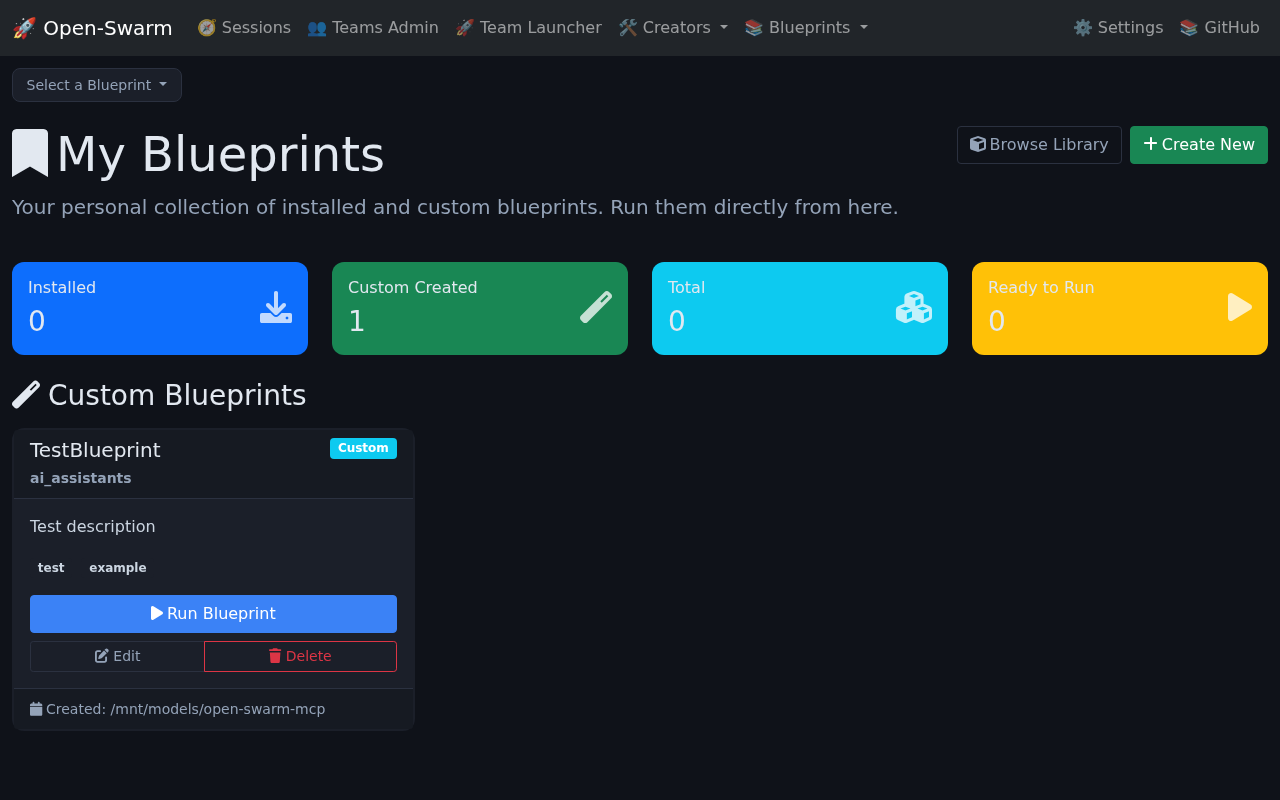
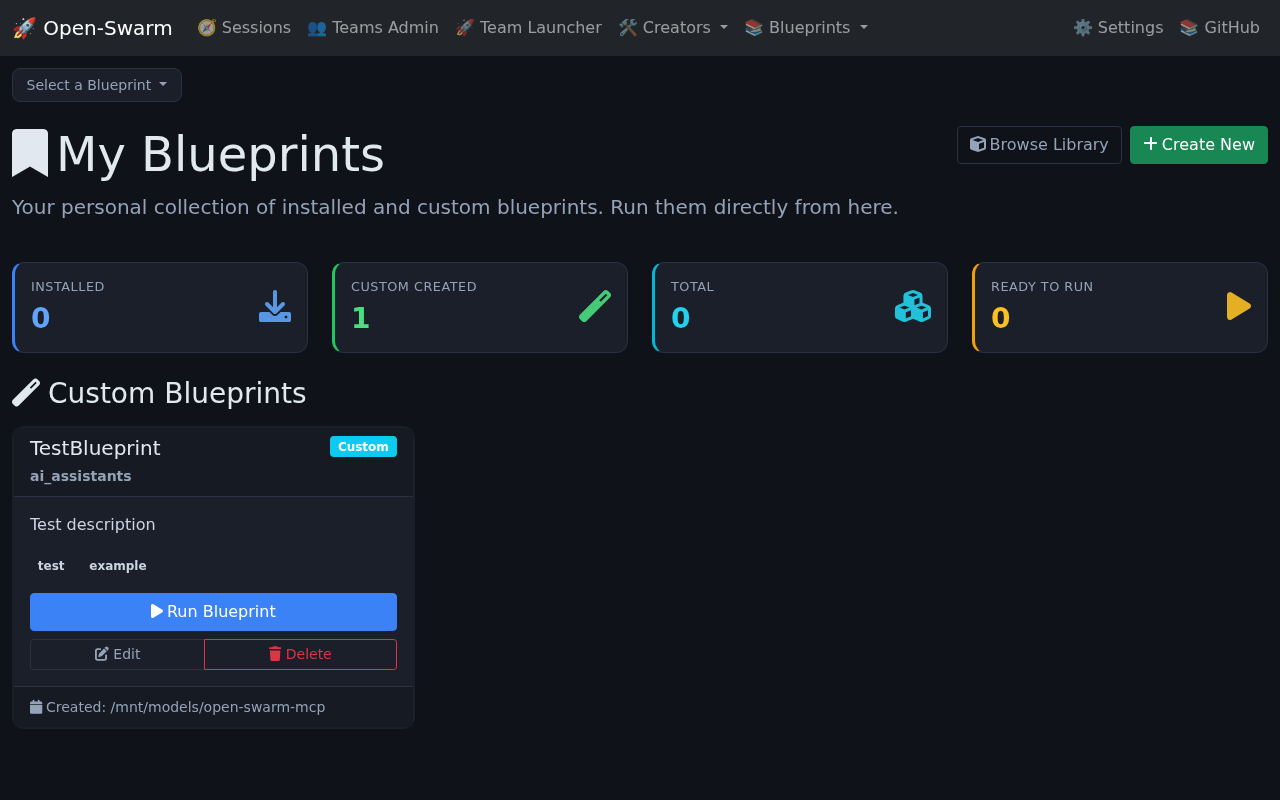
Refine dashboard stat cards: muted dark panels with colored accent (de-clutter)
The My Blueprints + Blueprint Library stat tiles used full-saturation Bootstrap
fills (bg-primary/success/info/warning text-white) — 4 loud solid colour blocks
that were the least-refined element left against the otherwise-muted dark theme.

Added a reusable .os-stat / .os-stat-{blue,green,cyan,amber} style: dark panel,
thin coloured left border, and the colour moved to the number + icon (uppercase
muted label). Keeps the per-stat colour coding but reads as one cohesive dark
dashboard instead of a row of bright blocks. Applied to both pages (8 cards).
Verified via capture.

diff --git a/src/swarm/static/css/rest_mode_style.css b/src/swarm/static/css/rest_mode_style.css
@@ -155,6 +155,20 @@ input[type="password"], input[type="email"], input[type="number"] {
   border-radius: 0 0 var(--os-radius) var(--os-radius); padding: 1rem 1.15rem;
 }
 
+/* ---- stat cards: muted dark panels with a colored accent ---------------- *
+ * Replaces loud full-saturation Bootstrap fills (bg-primary/success/info/
+ * warning text-white) so the dashboard stat tiles fit the dark palette while
+ * keeping per-stat colour coding (colour moves to the number, icon, and a thin
+ * left border instead of flooding the whole card). */
+.os-stat { background: var(--os-panel); border: 1px solid var(--os-border); border-left-width: 3px; }
+.os-stat .card-title { color: var(--os-muted); font-size: .8rem; text-transform: uppercase; letter-spacing: .04em; }
+.os-stat h3 { font-weight: 700; }
+.os-stat .fa-2x { opacity: .9 !important; }
+.os-stat-blue  { border-left-color: #3b82f6; } .os-stat-blue  h3, .os-stat-blue  .fa-2x { color: #60a5fa; }
+.os-stat-green { border-left-color: #22c55e; } .os-stat-green h3, .os-stat-green .fa-2x { color: #4ade80; }
+.os-stat-cyan  { border-left-color: #06b6d4; } .os-stat-cyan  h3, .os-stat-cyan  .fa-2x { color: #22d3ee; }
+.os-stat-amber { border-left-color: #f59e0b; } .os-stat-amber h3, .os-stat-amber .fa-2x { color: #fbbf24; }
+
 /* ---- list groups -------------------------------------------------------- */
 .list-group-item {
   background: var(--os-panel);

diff --git a/src/swarm/templates/blueprint_library.html b/src/swarm/templates/blueprint_library.html
@@ -30,7 +30,7 @@
     <!-- Stats Cards -->
     <div class="row mb-4">
         <div class="col-md-3">
-            <div class="card border-0 bg-primary text-white">
+            <div class="card os-stat os-stat-blue">
                 <div class="card-body">
                     <div class="d-flex justify-content-between">
                         <div>
@@ -45,7 +45,7 @@
             </div>
         </div>
         <div class="col-md-3">
-            <div class="card border-0 bg-success text-white">
+            <div class="card os-stat os-stat-green">
                 <div class="card-body">
                     <div class="d-flex justify-content-between">
                         <div>
@@ -60,7 +60,7 @@
             </div>
         </div>
         <div class="col-md-3">
-            <div class="card border-0 bg-info text-white">
+            <div class="card os-stat os-stat-cyan">
                 <div class="card-body">
                     <div class="d-flex justify-content-between">
                         <div>
@@ -75,7 +75,7 @@
             </div>
         </div>
         <div class="col-md-3">
-            <div class="card border-0 bg-warning text-white">
+            <div class="card os-stat os-stat-amber">
                 <div class="card-body">
                     <div class="d-flex justify-content-between">
                         <div>

diff --git a/src/swarm/templates/my_blueprints.html b/src/swarm/templates/my_blueprints.html
@@ -29,7 +29,7 @@
     <!-- Stats -->
     <div class="row mb-4">
         <div class="col-md-3">
-            <div class="card border-0 bg-primary text-white">
+            <div class="card os-stat os-stat-blue">
                 <div class="card-body">
                     <div class="d-flex justify-content-between">
                         <div>
@@ -44,7 +44,7 @@
             </div>
         </div>
         <div class="col-md-3">
-            <div class="card border-0 bg-success text-white">
+            <div class="card os-stat os-stat-green">
                 <div class="card-body">
                     <div class="d-flex justify-content-between">
                         <div>
@@ -59,7 +59,7 @@
             </div>
         </div>
         <div class="col-md-3">
-            <div class="card border-0 bg-info text-white">
+            <div class="card os-stat os-stat-cyan">
                 <div class="card-body">
                     <div class="d-flex justify-content-between">
                         <div>
@@ -74,7 +74,7 @@
             </div>
         </div>
         <div class="col-md-3">
-            <div class="card border-0 bg-warning text-white">
+            <div class="card os-stat os-stat-amber">
                 <div class="card-body">
                     <div class="d-flex justify-content-between">
                         <div>